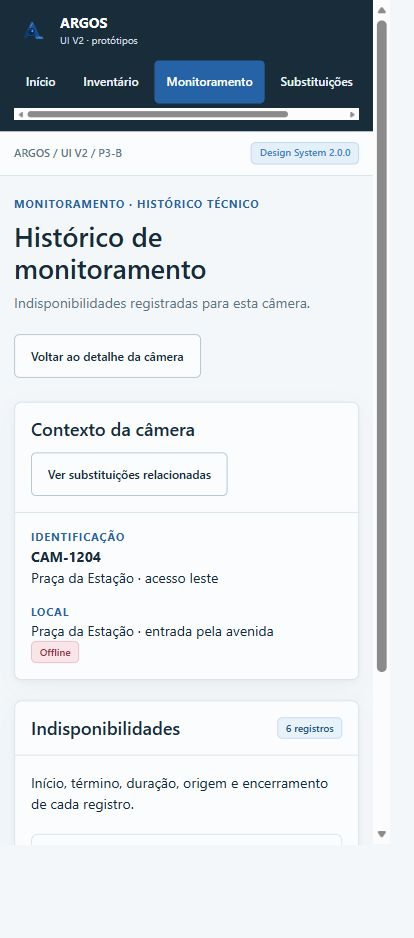
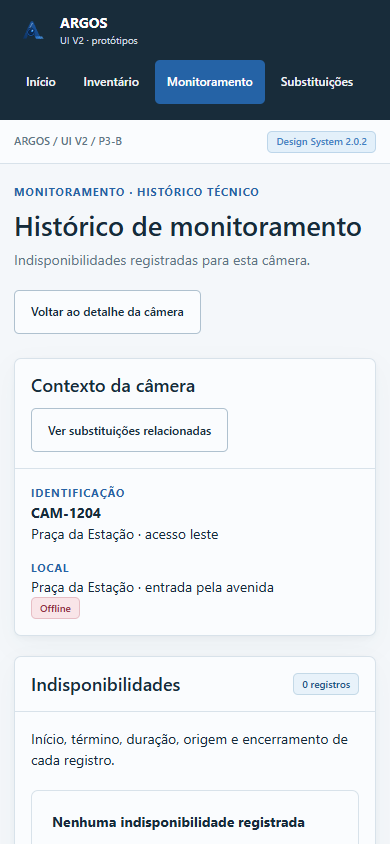
docs(ui): close approved P3-B family

diff --git a/docs/prototype/ui-v2/screens/p3-b/scr-sub-camera-001.html b/docs/prototype/ui-v2/screens/p3-b/scr-sub-camera-001.html
@@ -32,7 +32,7 @@
           <a href="scr-sub-list-001.html" aria-current="page">Substituições</a>
           <a href="../index.html#screen-scr-event-list-001">Eventos</a>
       </nav>
-      <p class="argos-docs-sidebar__foot">P3-B · DS 2.0.1 · protótipo</p>
+      <p class="argos-docs-sidebar__foot">P3-B · DS 2.0.2 · protótipo</p>
     </aside>
     <div class="argos-docs-main">
       <header class="argos-docs-topbar">

diff --git a/docs/prototype/ui-v2/screens/p3-b/scr-sub-detail-001.html b/docs/prototype/ui-v2/screens/p3-b/scr-sub-detail-001.html
@@ -32,7 +32,7 @@
           <a href="scr-sub-list-001.html" aria-current="page">Substituições</a>
           <a href="../index.html#screen-scr-event-list-001">Eventos</a>
       </nav>
-      <p class="argos-docs-sidebar__foot">P3-B · DS 2.0.1 · protótipo</p>
+      <p class="argos-docs-sidebar__foot">P3-B · DS 2.0.2 · protótipo</p>
     </aside>
     <div class="argos-docs-main">
       <header class="argos-docs-topbar">

diff --git a/docs/prototype/ui-v2/screens/p3-b/scr-sub-list-001.html b/docs/prototype/ui-v2/screens/p3-b/scr-sub-list-001.html
@@ -32,7 +32,7 @@
           <a href="scr-sub-list-001.html" aria-current="page">Substituições</a>
           <a href="../index.html#screen-scr-event-list-001">Eventos</a>
       </nav>
-      <p class="argos-docs-sidebar__foot">P3-B · DS 2.0.1 · protótipo</p>
+      <p class="argos-docs-sidebar__foot">P3-B · DS 2.0.2 · protótipo</p>
     </aside>
     <div class="argos-docs-main">
       <header class="argos-docs-topbar">

diff --git a/docs/prototype/ui-v2/screens/p3-b/scr-mon-history-001.html b/docs/prototype/ui-v2/screens/p3-b/scr-mon-history-001.html
@@ -32,7 +32,7 @@
           <a href="scr-sub-list-001.html">Substituições</a>
           <a href="../index.html#screen-scr-event-list-001">Eventos</a>
       </nav>
-      <p class="argos-docs-sidebar__foot">P3-B · DS 2.0.1 · protótipo</p>
+      <p class="argos-docs-sidebar__foot">P3-B · DS 2.0.2 · protótipo</p>
     </aside>
     <div class="argos-docs-main">
       <header class="argos-docs-topbar">

diff --git a/docs/prototype/ui-v2/evidence/p3-b/coverage.md b/docs/prototype/ui-v2/evidence/p3-b/coverage.md
@@ -1,67 +1,100 @@
-# P3-B — cobertura local e checkpoint de recuperação
+# P3-B — cobertura de regressão e evidências
 
-**Atividade:** UI-V2-P3-B — Monitoring / Substitutions
-**Branch:** `codex/ui-v2-p3-b-monitoring-activities`
-**Worktree:** `C:/Users/walac/.codex/worktrees/ui-v2-p3-b/projeto_argos`
-**Base recebida:** `b57ad0044722a838e761f987eeb0aa556c6646b0`
-**Patch DS 2.0.1:** `8121ed38cc15e1ff6e72cb46bbb2ca865100bce0`, ancestral de `origin/master`; cherry-pick local `94da3b6`
-**Estado:** QA parcial; evidência pendente; autorização para Playwright local concedida neste checkpoint.
-**PROJECT_STATE_UPDATE:** PASS — atualização restrita a este relatório e ao HANDOFF da família; arquivos root-owned permanecem intocados.
+**Atividade:** UI-V2-P3-B — Browser Regression + Evidence Refresh + Final Design QA
+**Data:** 2026-09-30
+**Branch:** codex/ui-v2-p3-b-monitoring-activities
+**Worktree:** C:\Users\walac\desenvolvimento\projeto_argos_ui_v2_p3_b
+**HEAD inicial:** 7b879b890a1c0254c52234d0391589348bda6526
+**HEAD remoto inicial:** 7b879b890a1c0254c52234d0391589348bda6526
+**Divergência inicial:** 0 / 0; worktree limpo
+**Design System validado:** 2.0.2; propagação P3-B 466504bfaec68c04c4a1c53daa64764053844181
 
-## Ownership
+## Escopo e ownership
 
-A matriz canônica atribui estas quatro telas a P3-B. Nenhum desvio de ownership ou conflito foi encontrado.
-
-| SCREEN_ID | Path canônico | Metadado atual |
+| Screen ID | Rota canônica | Resultado |
 |---|---|---|
-| SCR-MON-HISTORY-001 | `docs/prototype/ui-v2/screens/p3-b/scr-mon-history-001.html` | `IN_PROGRESS` |
-| SCR-SUB-LIST-001 | `docs/prototype/ui-v2/screens/p3-b/scr-sub-list-001.html` | `IN_PROGRESS` |
-| SCR-SUB-DETAIL-001 | `docs/prototype/ui-v2/screens/p3-b/scr-sub-detail-001.html` | `IN_PROGRESS` |
-| SCR-SUB-CAMERA-001 | `docs/prototype/ui-v2/screens/p3-b/scr-sub-camera-001.html` | `IN_PROGRESS` |
+| SCR-MON-HISTORY-001 | screens/p3-b/scr-mon-history-001.html | PASS |
+| SCR-SUB-LIST-001 | screens/p3-b/scr-sub-list-001.html | PASS |
+| SCR-SUB-DETAIL-001 | screens/p3-b/scr-sub-detail-001.html | PASS |
+| SCR-SUB-CAMERA-001 | screens/p3-b/scr-sub-camera-001.html | PASS |
 
-## Implementação e propagação
+As quatro telas pertencem a P3-B. P3-A, P3-C, P3-D, shared DS, produção e backend permaneceram fora das alterações.
 
-- A família agora declara DS 2.0.1 nos metadados e badges das quatro telas.
-- O patch canônico foi propagado sem cherry-pick de commits de integração ou continuidade.
-- `p3-b.js` corrige contagens em estados vazios e nomes acessíveis específicos da paginação; os rótulos iniciais nos wrappers HTML também foram alinhados.
-- Monitoramento mostra registros abertos/fechados e distingue stale: o efetivo aparece como “Desconhecido”, preservando o último estado estável como evidência; não introduz estado `RECOVERING`.
-- A lista global trata período invertido como erro de validação do filtro. O detalhe permanece somente para consulta. A consulta por câmera apresenta os papéis “Foi substituída” e “Entrou como substituta”.
-- Fixtures são sintéticas e determinísticas; links, filtros e paginação são conceituais. Não há persistência, backend nem alteração produtiva.
+## Evidências PNG atuais
 
-## Estados exercitados no navegador
+Capturas feitas pelo mecanismo autorizado: Node + Playwright + Chrome local, servindo o protótipo por HTTP em 127.0.0.1, viewport CSS explícito e deviceScaleFactor 1. Cada PNG foi aberto e inspecionado depois de salvo. Todos medem exatamente a dimensão indicada no nome.
 
-| Tela | Cenários pós-correção exercitados |
+Diretório: docs/prototype/ui-v2/evidence/screenshots/p3-b/.
+
+| Tela | Estado / viewport | Arquivo |
+|---|---|---|
+| Monitoramento | default / 1440×900 | scr-mon-history-001__1440x900__default__default.png |
+| Monitoramento | default / 390×844 | scr-mon-history-001__390x844__default__default.png |
+| Monitoramento | empty / 390×844 | scr-mon-history-001__390x844__empty__default.png |
+| Monitoramento | stale (freshness=stale) / 390×844 | scr-mon-history-001__390x844__stale__default.png |
+| Lista global | default / 1440×900 | scr-sub-list-001__1440x900__default__default.png |
+| Lista global | default / 390×844 | scr-sub-list-001__390x844__default__default.png |
+| Lista global | empty / 390×844 | scr-sub-list-001__390x844__empty__default.png |
+| Lista global | long / 390×844, tabela em foco visual | scr-sub-list-001__390x844__default__long.png |
+| Detalhe | default / 1440×900 | scr-sub-detail-001__1440x900__default__default.png |
+| Detalhe | default / 390×844 | scr-sub-detail-001__390x844__default__default.png |
+| Detalhe | long / 390×844, informações históricas | scr-sub-detail-001__390x844__default__long.png |
+| Consulta por câmera | default / 1440×900 | scr-sub-camera-001__1440x900__default__default.png |
+| Consulta por câmera | default / 390×844 | scr-sub-camera-001__390x844__default__default.png |
+| Consulta por câmera | empty / 390×844 | scr-sub-camera-001__390x844__empty__default.png |
+
+SCR-SUB-DETAIL-001 não define variante empty/error canônica no fixture/harness atual; esse estado não foi inventado.
+
+## Regressão browser
+
+**Resultado geral:** PASS.
+
+| Check | Resultado |
 |---|---|
-| Monitoramento | default, vazio (0 registros), stale em 390×844, fixture longa em 390×844 |
-| Lista global | default, busca `CAM`, vazio, `state=error` como validação de período, intervalo invertido em 390×844, fixture longa em 390×844 |
-| Detalhe | default somente leitura, fixture longa em 390×844 |
-| Consulta por câmera | default, vazio (0 registros), fixture longa em 390×844; página 2 confirma “Entrou como substituta” |
+| hidden inativo | PASS — zero elementos ocultos visíveis indevidamente nas 14 capturas |
+| Overflow horizontal global | PASS — zero nas quatro telas/estados cobertos |
+| Rolagem local de tabela | PASS — conteúdo largo permanece em .argos-table-region com overflow-x:auto em mobile; em desktop a tabela cabe na região |
+| Fragmentação de palavras | PASS — zero palavras comuns quebradas em fragmentos; identificadores longos podem quebrar em separadores, conforme DS 2.0.2 |
+| Ações por teclado | PASS — todos os links de ação visíveis nas listas e consultas foram alcançados por Tab |
+| Foco visível | PASS — controles focáveis distintos e ações de tabela apresentaram foco visível |
+| Scroll local ao focar ações | PASS — a região da tabela revelou horizontalmente a coluna de ações em mobile |
+| Busca | PASS — consulta sem correspondências mostra empty e zero linhas |
+| Período inválido | PASS — alerta visível e dois campos com aria-invalid=true |
+| Link lista → detalhe | PASS — abre o detalhe do registro selecionado |
+| Paginação por câmera | PASS — página 2 contém o papel “Entrou como substituta” |
+| Detalhe histórico | PASS — aviso somente para consulta visível; sem ações de edição/exclusão |
+| Monitor stale | PASS — freshness=stale mostra estado efetivo “Desconhecido”, aviso stale e último estado estável |
+| Erros de console/página | PASS — 0 |
+| Requests externos | PASS — 0 |
+| Requests não-GET | PASS — 0 |
+| Respostas HTTP de erro ou requests falhos | PASS — 0 |
+| Persistência real | PASS — 0 writes observados em localStorage, sessionStorage, IndexedDB e cookies; protótipo carrega fixture estática local |
 
-Em todos os 15 cenários da matriz DOM: `hidden` inativo permaneceu visualmente oculto e a página não teve overflow global. A paginação fica oculta em estados vazios/erro e usa nomes em português específicos. A tabela usa rolagem horizontal local em mobile; o shell de navegação horizontal também pode rolar sem alargar o documento.
+As requests da execução eram somente GET para o preview local e arquivos de fixture/estilo/script. Não houve chamadas ao backend ou mudança persistente.
 
-Defaults das quatro telas foram conferidos em 1920×1080, 1440×900, 1366×768 e 390×844. Fixtures longas foram conferidas em 390×844. A escala CSS foi medida com `devicePixelRatio=1` na viewport 390×844.
+## Design System e finding
+TOP_BADGE = Design System 2.0.2
+FOOTER = DS 2.0.2
+PRIVACY_SANITY_CHECK = PASS
 
-## Acessibilidade verificada
+DESIGN_SYSTEM_VERSION = 2.0.2. P3B_REV_01 = RESOLVED. STALE_VISIBLE_DS_METADATA = RESOLVED. STALE_FOOTER_OCCURRENCES_FOUND = 4. STALE_FOOTER_OCCURRENCES_CORRECTED = 4. VISIBLE_DS_METADATA_CONSISTENT = YES — metadados argos-ui-version, badges e rodapés exibem 2.0.2 nas quatro superfícies.
 
-- Um H1 por tela; hierarquia de títulos, landmarks `nav`/`main`, tabelas e cabeçalhos semânticos presentes.
-- Campos da lista têm labels. No período inválido, ambos os campos usam `aria-invalid=true` e apontam para `period-error-copy`.
-- A navegação por teclado expõe foco visível com contorno de 3 px; campos de filtro e ações principais recebem foco.
-- Os links, botões e campos visíveis dentro de `main` têm dimensões mínimas de 44×44 CSS px em 390×844.
-- O detalhe não apresenta controles de edição ou exclusão.
-- O shell herdado tem alvos menores (link de marca ~36 px e link de pular ~37 px), sem bloqueio conhecido neste gate. Não declarar conformidade WCAG.
+DESKTOP_EVIDENCE_REFRESHED = YES — quatro PNGs desktop 1440×900 default foram recapturados. A captura SUB-CAMERA inclui o rodapé e mudou somente pixels na pequena área do texto; nos outros três frames default o rodapé fica abaixo da viewport e os novos arquivos são pixel idênticos aos anteriores. Sem regressão de layout. MOBILE_EVIDENCE_REUSED = YES — dez PNGs mobile preservados; nenhum mostra o rodapé no frame. PRIVACY_SANITY_CHECK = PASS — inspeção visual dos 14 PNGs e conferência das fixtures; somente conteúdo de demonstração, sem credenciais, tokens, chaves privadas ou dados pessoais reais observados.
 
-## Design QA e evidências
+BLOCKING = NONE
+NON_BLOCKING = NONE
+KNOWN_SHARED = NONE
+PRODUCT_DESIGN_QA = PASS
+USER_VISUAL_APPROVAL = PENDING
 
-A direção Style Lab C foi inspecionada contra capturas atuais em memória do Browser do Codex. Paleta azul-marinho/azul, tipografia, cartões, tabelas e chips estão coerentes; a fonte é referência de direção, não mock de composição desta página. Não foi observado desvio visual material nos defaults desktop/mobile inspecionados.
+## Estado da atividade
 
-**DESIGN_QA_COMPLETE = NO — final result: blocked.** O gate requer capturas PNG atuais persistidas nos caminhos canônicos e revisão integral dos estados/regions. O Browser do Codex exibe as capturas, mas não as grava no repositório. A autorização para Playwright local está concedida; as capturas permanecem pendentes porque este checkpoint proíbe iniciar nova QA. As 23 imagens que já existem foram feitas antes da propagação 2.0.1 e não devem ser usadas como evidência pós-patch. Nenhuma `USER_VISUAL_APPROVAL` foi registrada.
-
-- Fonte visual: `docs/prototype/ui-v2/style-lab/screenshots/argos-style-c.png`.
-- Diretório canônico de capturas: `docs/prototype/ui-v2/evidence/screenshots/p3-b/`.
-- Histórico/finding de QA: os dois estados vazios contavam os registros-base; ambos agora exibem zero. Rótulos genéricos de paginação também foram corrigidos e revalidados.
-
-## Escopo e estado do projeto
-
-`DESIGN_SYSTEM_MODIFIED = NO` · `ROOT_OWNED_FILES_CHANGED = NO` · `CROSS_FAMILY_FILES_CHANGED = NO` · `PRODUCTION_CHANGED = NO` · `USER_VISUAL_APPROVAL = PENDING`.
-
-Não promover metadados para `TECHNICAL_READY_FOR_REVIEW` nem declarar `ACTIVITY_COMPLETE` enquanto o gate visual e as evidências persistidas estiverem pendentes.
+BROWSER_REGRESSION = PASS / targeted desktop post-fix: 4/4 surfaces, no global overflow, no console/page or HTTP errors
+EVIDENCE_CAPTURE = PASS / 14 PNGs atuais; quatro desktops refreshed, dez mobiles reutilizados; dimensões verificadas
+PROJECT_STATE_UPDATE = PASS / checkpoint P3-B nos relatórios familiares; PROJECT_STATE.md root-owned inalterado
+SCREEN_SOURCE_CHANGED = YES (somente metadata visual nos quatro HTMLs P3-B)
+SHARED_DESIGN_SYSTEM_CHANGED = NO
+OTHER_FAMILIES_CHANGED = NO
+PRODUCTION_CHANGED = NO
+FAMILY_TECHNICAL_STATUS = PASS / READY_FOR_USER_VISUAL_REVIEW
+NEXT_GATE = P3-B FINAL HUMAN VISUAL REVIEW

diff --git a/docs/prototype/ui-v2/evidence/p3-b/design-qa.md b/docs/prototype/ui-v2/evidence/p3-b/design-qa.md
@@ -1,28 +1,70 @@
-# P3-B — design-qa
+# P3-B — Design QA final
 
-**Fonte visual:** `docs/prototype/ui-v2/style-lab/screenshots/argos-style-c.png` (ARGOS Hybrid; 1425×1395 px).
-**Implementações:** `SCR-MON-HISTORY-001`, `SCR-SUB-LIST-001`, `SCR-SUB-DETAIL-001`, `SCR-SUB-CAMERA-001`.
-**Viewports inspecionadas:** 1440×900 e 390×844 CSS px; capturas atuais ainda não persistidas no diretório canônico.
+**Atividade:** UI-V2-P3-B — Monitoring / Substitutions
+**Fonte visual:** direção C — ARGOS HYBRID; a composição aprovada das telas foi preservada.
+**Telas:** SCR-MON-HISTORY-001, SCR-SUB-LIST-001, SCR-SUB-DETAIL-001, SCR-SUB-CAMERA-001.
+**Design System:** 2.0.2.
+**Viewports:** 1440×900 e 390×844 CSS px, DPR 1.
+**Evidência:** 14 PNGs atuais em docs/prototype/ui-v2/evidence/screenshots/p3-b/; os quatro desktops 1440×900 default foram recapturados após a correção, e os dez mobiles validados foram reutilizados.
 
 ## Resultado
 
-**DESIGN_QA_COMPLETE = NO**
-**final result: blocked**
+PRODUCT_DESIGN_QA = PASS
+BLOCKING = NONE
+NON_BLOCKING = NONE
+KNOWN_SHARED = NONE
+USER_VISUAL_APPROVAL = PENDING
 
-A revisão visual no Browser do Codex mostrou linguagem visual coerente com a referência: sidebar azul-marinho, azul de seleção, canvas claro, cartões, tabelas, tipografia e chips. A Style Lab C fornece direção visual; não é um mock aprovado da composição P3-B. Os quatro defaults foram vistos em desktop e mobile. Estados funcionais e comportamento responsivo foram revalidados no DOM.
+A hierarquia de página, cartões, estados, navegação e tabelas permanecem coerentes com ARGOS HYBRID. Os vazios mostram zero registros; o stale preserva o último estado estável e comunica “Desconhecido” como estado efetivo. No mobile, o documento permanece na largura da viewport e tabelas largas mantêm rolagem horizontal própria. Identificadores longos quebram em separadores sem fragmentar palavras comuns. O detalhe histórico permanece claramente somente para consulta.
 
-O gate formal está bloqueado porque as capturas do Browser do Codex ficam em memória e não podem ser salvas como PNGs nos caminhos de evidência. A autorização para usar Playwright local foi concedida neste checkpoint. As capturas continuam pendentes porque a instrução de hoje é não iniciar nova QA. As imagens históricas do checkpoint são DS 2.0.0 e não são evidência válida do estado após a propagação.
+## Passos e saúde das telas
 
-## Comparação e findings
+1. **Histórico de monitoramento — saudável.** Default desktop/mobile, empty e stale foram capturados. No stale, “Desconhecido”, a evidência temporal e o último estado estável aparecem sem overflow global.
+2. **Histórico global de substituições — saudável.** Default desktop/mobile, empty e long foram capturados. Filtros permanecem rotulados; tabela conserva rolagem local e ações acessíveis.
+3. **Detalhe da substituição — saudável.** Default desktop/mobile e long foram capturados. O aviso de somente leitura é evidente e não há ações de edição ou exclusão.
+4. **Substituições por câmera — saudável.** Default desktop/mobile e empty foram capturados. O papel da câmera fica legível no registro; a página 2 também foi verificada funcionalmente.
 
-- **P0/P1:** nenhum observado nas vistas examinadas.
-- **P2:** nenhum desvio visual material observado nos defaults; a navegação do shell rola horizontalmente em mobile sem overflow do documento, e as tabelas usam sua própria rolagem horizontal.
-- **Correções concluídas durante QA:** contagem dos vazios de monitoramento e consulta por câmera ajustada para `0 registros`; nomes de paginação traduzidos e específicos em estados com e sem resultados.
-- **Acessibilidade relacionada ao visual:** foco de teclado visível (contorno de 3 px); campos e controles principais com pelo menos 44×44 CSS px; detalhes imutáveis sem ações de edição/exclusão.
+A cobertura completa por arquivo está em docs/prototype/ui-v2/evidence/p3-b/coverage.md.
 
-## Para fechar o gate
+## Findings
 
-1. Gerar e persistir as capturas atuais com os nomes e viewports definidos na cobertura P3-B; cobrir os estados aplicáveis e variantes longas.
-2. Confirmar zoom/escala e registrar dimensões CSS e pixels das capturas.
-3. Fazer a comparação lado a lado por tela/estado, registrar findings por prioridade e atualizar `final result` para `passed` ou manter `blocked` com razão objetiva.
-4. Só depois promover as quatro telas a `TECHNICAL_READY_FOR_REVIEW`; manter `USER_VISUAL_APPROVAL = PENDING` para a revisão humana.
+### BLOCKING
+
+Nenhum.
+
+### NON_BLOCKING
+
+P3B_REV_01 = RESOLVED. STALE_VISIBLE_DS_METADATA = RESOLVED: os quatro rodapés HTML agora exibem DS 2.0.2, consistente com os metadados e badges superiores. Nenhum finding não bloqueante permanece.
+
+### KNOWN_SHARED
+
+Nenhum finding compartilhado novo foi identificado.
+
+## Interação, teclado e evidências
+
+- Todas as ações de tabela disponíveis foram alcançadas por Tab; foco visível foi conferido.
+- Ao focar ações que começam fora da área visível, o scroll horizontal local revela a coluna correspondente.
+- Campos e ações da lista são alcançáveis; intervalo inválido marca ambos os campos e apresenta o erro.
+- O link “Ver registro” abre o detalhe correspondente; o detalhe continua sem mutações.
+- As imagens de estado long foram posicionadas sobre o conteúdo longo; as demais mostram o topo do respectivo estado. Todos os PNGs têm dimensões compatíveis com seus nomes.
+- Os quatro screenshots desktop foram recapturados a 1440×900; os dez mobile foram preservados e reutilizados.
+- No frame default, o footer está dentro do viewport apenas na captura SUB-CAMERA; nos outros três está abaixo da viewport e as capturas são pixel idênticas às versões anteriores. A versão 2.0.2 do rodapé foi confirmada no browser nas quatro superfícies.
+- PRIVACY_SANITY_CHECK = PASS: os 14 PNGs mostram somente conteúdo de demonstração; nenhum segredo ou dado pessoal real foi observado.
+- O detalhe não tem estado empty/error definido pelo fixture/harness; esse estado ficou fora da matriz.
+
+A avaliação é limitada ao protótipo estático local e às interações exercitadas. Não representa validação de backend, persistência ou conformidade WCAG completa. Não foram vistos erros de console/página, requests externos, métodos diferentes de GET ou escrita de persistência no navegador.
+
+## Prontidão
+
+DESIGN_SYSTEM_VERSION = 2.0.2
+TOP_BADGE = Design System 2.0.2
+FOOTER = DS 2.0.2
+VISIBLE_DS_METADATA_CONSISTENT = YES
+P3B_REV_01 = RESOLVED
+STALE_VISIBLE_DS_METADATA = RESOLVED
+BROWSER_REGRESSION_AFTER_FIX = PASS / 4 desktop surfaces; no overflow or console/page errors
+DESIGN_QA_COMPLETE = YES / PASS
+FAMILY_TECHNICAL_STATUS = PASS / READY_FOR_USER_VISUAL_REVIEW
+USER_VISUAL_APPROVAL = PENDING
+PROJECT_STATE_UPDATE = PASS / família registrada nos relatórios P3-B; PROJECT_STATE.md root-owned não alterado
+NEXT_GATE = P3-B FINAL HUMAN VISUAL REVIEW

diff --git a/docs/prototype/ui-v2/screens/p3-b/HANDOFF.md b/docs/prototype/ui-v2/screens/p3-b/HANDOFF.md
@@ -1,43 +1,54 @@
-# P3-B — checkpoint seguro de fim de dia para handoff
+# P3-B — checkpoint final de regressão, evidências e Design QA
 
 PROJECT = ARGOS
-ACTIVITY = P3-B END-OF-DAY SAFE CHECKPOINT FOR WORKSTATION HANDOFF
-DATE = 2026-09-29
+ACTIVITY = UI-V2-P3-B BROWSER REGRESSION + EVIDENCE REFRESH + FINAL DESIGN QA
+DATE = 2026-09-30
 BRANCH = codex/ui-v2-p3-b-monitoring-activities
-HEAD_AT_CHECKPOINT_START = 94da3b63bba2791a41bb3fc9ebfbdf29c27202e8
-DS_2_0_1_PROPAGATION_COMMIT = 94da3b6
-DS_2_0_1_PROPAGATED = YES
-DS_2_0_2_PROPAGATED = NO
-CONTINUE_IMPLEMENTATION = NO
-NEW_QA = NO
-TECHNICAL_QA = PARTIAL / SUBSTANTIALLY EXECUTED
-EVIDENCE_CAPTURE = PENDING
-PLAYWRIGHT_LOCAL_AUTHORIZED = YES
+WORKTREE = C:\Users\walac\desenvolvimento\projeto_argos_ui_v2_p3_b
+HEAD_BEFORE = 7b879b890a1c0254c52234d0391589348bda6526
+REMOTE_FEATURE_HEAD_BEFORE = 7b879b890a1c0254c52234d0391589348bda6526
+REMOTE_DIVERGENCE_BEFORE = 0 / 0
+WORKTREE_BEFORE = CLEAN
+DESIGN_SYSTEM_VERSION = 2.0.2
+P3B_REV_01 = RESOLVED
+STALE_VISIBLE_DS_METADATA = RESOLVED
+BROWSER_REGRESSION = PASS
+EVIDENCE_CAPTURE = PASS / 14 current PNGs inspected; 4 desktop refreshed; 10 mobile reused
+PRODUCT_DESIGN_QA = PASS
+BLOCKING_FINDINGS = NONE
+NON_BLOCKING_FINDINGS = NONE
+KNOWN_SHARED_FINDINGS = NONE
 USER_VISUAL_APPROVAL = PENDING
-
-## Estado atual
-
-A branch P3-B foi recuperada do handoff remoto `b57ad0044722a838e761f987eeb0aa556c6646b0`. O patch canônico DS 2.0.1 (`8121ed38cc15e1ff6e72cb46bbb2ca865100bce0`) foi aplicado localmente no commit `94da3b6`. DS 2.0.2 não foi propagado.
-
-Nenhuma implementação nova ou QA será iniciada neste checkpoint. As 23 capturas que já existiam antecedem DS 2.0.1 e não substituem a evidência pós-patch. A autorização para capturar PNGs com Playwright local está concedida; a captura permanece pendente para a retomada amanhã. O gate de Design QA está incompleto, os quatro metadados continuam `IN_PROGRESS`, `TECHNICAL_READY = NO` e `USER_VISUAL_APPROVAL = PENDING`.
-
-## QA já realizado antes deste checkpoint
-
-- Os quatro defaults foram conferidos em 1920×1080, 1440×900, 1366×768 e 390×844 CSS px; os cenários DOM exercitados não tiveram overflow global.
-- Foram vistos estados default, vazio, stale, busca selecionada, erro de período, intervalo inválido e fixture longa; a câmera foi verificada também na página 2.
-- Checados semântica de `hidden`, hierarquia e landmarks, labels e erros dos campos, foco visível por teclado, alvos principais, detalhe sem ações de mutação e console sem erros nas quatro telas.
-- Correções já feitas: contagens dos vazios de monitoramento e consulta por câmera mostram `0 registros`; rótulos da paginação foram traduzidos e especificados; DS 2.0.1 está visível nas quatro telas.
-- Não se declarou prontidão técnica nem aprovação visual do usuário.
-
-## Correções e arquivos locais
-
-As alterações pendentes no worktree pertencem à família P3-B: quatro HTMLs, `p3-b.js`, `coverage.md`, `design-qa.md` e este HANDOFF. Não foram alterados arquivos root-owned, outra família, Design System compartilhado ou produção.
-
-## Próximo passo exato
-
-NEXT_STEP = Recover remote P3-B branch on the work computer, propagate canonical DS 2.0.2 patch 8a480a50a338ef3961a242e9dce0ccaf09cdf49b, run targeted Data Table regression, complete Playwright evidence, finish design QA and technical gate.
-
-PROJECT_STATE_UPDATE = PASS — checkpoint familiar documentado localmente; estado mestre permanece reservado ao arquivo root-owned.
+PROJECT_STATE_UPDATE = PASS / family checkpoint recorded here; canonical root-owned PROJECT_STATE.md left unchanged
 PRODUCTION_CHANGED = NO
-ROOT_OWNED_FILES_CHANGED = NO
-CROSS_FAMILY_FILES_CHANGED = NO
+SHARED_DESIGN_SYSTEM_CHANGED = NO
+OTHER_FAMILIES_CHANGED = NO
+
+## Resultado
+
+O precheck exigido pelo Card B passou sem divergências. A regressão cobriu as quatro telas P3-B em preview HTTP local com Chrome instalado, Playwright, deviceScaleFactor 1 e somente requests locais GET.
+
+- SCR-MON-HISTORY-001 — PASS.
+- SCR-SUB-LIST-001 — PASS.
+- SCR-SUB-DETAIL-001 — PASS.
+- SCR-SUB-CAMERA-001 — PASS.
+
+Os quatro metadados argos-ui-version, badges superiores e rodapés das superfícies P3-B exibem 2.0.2. P3B_REV_01 e STALE_VISIBLE_DS_METADATA estão RESOLVED por correção textual nos quatro HTMLs, sem alteração de composição, CSS ou comportamento. As quatro evidências desktop foram regravadas; as dez mobile foram reutilizadas.
+
+Checks objetivos: sem violações de hidden; sem overflow horizontal global; rolagem horizontal de tabela permanece confinada ao respectivo argos-table-region; sem fragmentação destrutiva de palavras; ações tabuláveis com foco visível e rolagem local para revelar a coluna de ações. As validações funcionais de busca sem resultados, intervalo inválido, navegação da lista ao detalhe, página 2 por câmera, detalhe somente leitura e estado stale passaram. Não houve erros de console/página, falhas ou respostas HTTP de erro, requests externos, requests não-GET nem escrita em localStorage, sessionStorage, IndexedDB ou cookies.
+
+Não existe variante empty/error canônica para SCR-SUB-DETAIL-001 no fixture/harness atual; nenhum estado foi inventado. O stale de monitoramento foi exercitado por freshness=stale, conforme p3-b.js.
+
+## Evidências e próximo gate
+
+Diretório canônico: docs/prototype/ui-v2/evidence/screenshots/p3-b/.
+
+O conjunto atual contém os estados default desktop/mobile, empty, stale e long aplicáveis, com nomes determinísticos e dimensões verificadas. A matriz completa, checks e nomes estão em docs/prototype/ui-v2/evidence/p3-b/coverage.md; findings e avaliação visual estão em docs/prototype/ui-v2/evidence/p3-b/design-qa.md.
+
+SCREEN_SOURCE_CHANGED = YES (somente metadata visual nos quatro HTMLs P3-B) · SHARED_DESIGN_SYSTEM_CHANGED = NO · P3_A_CHANGED = NO · P3_C_CHANGED = NO · P3_D_CHANGED = NO · PRODUCTION_CHANGED = NO
+
+A família está tecnicamente pronta para revisão visual humana, com P3B_REV_01 resolvida e sem findings abertos. USER_VISUAL_APPROVAL permanece PENDING; este registro não atribui aprovação visual ao usuário. PROJECT_STATE.md é root-owned e não foi alterado; o checkpoint de atividade e estado da família fica neste HANDOFF, coverage e design QA.
+
+PROJECT_STATE_UPDATE = PASS / family state and gate recorded in the P3-B handoff
+FAMILY_TECHNICAL_STATUS = PASS / READY_FOR_USER_VISUAL_REVIEW
+NEXT_GATE = P3-B FINAL HUMAN VISUAL REVIEW
